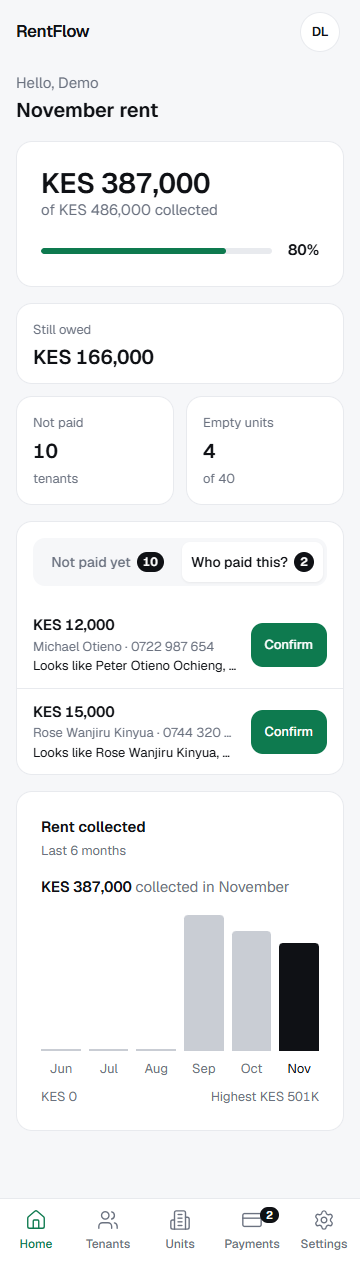
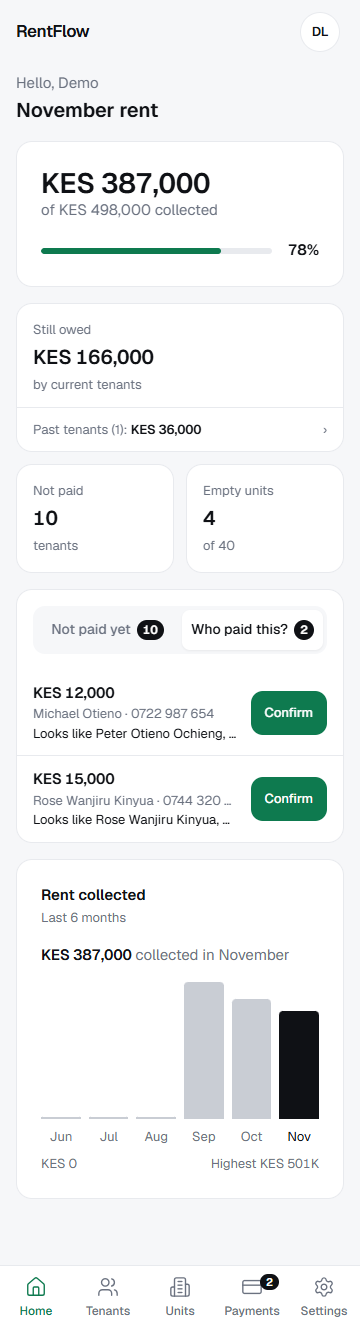
Refresh screenshots with past tenants and billing screens

diff --git a/scripts/screenshots.ts b/scripts/screenshots.ts
@@ -12,7 +12,7 @@ import { createClient, type Session } from "@supabase/supabase-js";
 import { existsSync, mkdirSync, readFileSync } from "node:fs";
 import { join } from "node:path";
 import { chromium, type BrowserContext } from "playwright-core";
-import { DEMO } from "../src/demo/data";
+import { DEMO, ORG_ID } from "../src/demo/data";
 
 const BASE = process.env.BASE_URL ?? "http://localhost:3100";
 const OUT = join(__dirname, "..", "docs", "screenshots");
@@ -74,6 +74,7 @@ async function main() {
   const { data: ahead } = await db.from("lease_overview").select("lease_id").eq("unit_code", "B15").single();
   const { data: b } = await db.from("buildings").select("id").limit(1).single();
   const { data: up } = await db.from("statement_uploads").select("id").order("created_at", { ascending: false }).limit(1).single();
+  const { data: past } = await db.from("lease_overview").select("lease_id").eq("status", "ended").limit(1).maybeSingle();
 
   const landlord: [string, string][] = [
     ["01-home", "/home"],
@@ -93,6 +94,8 @@ async function main() {
     ["15-onboarding-3-tenants", `/onboarding/tenants?b=${b!.id}`],
     ["16-onboarding-4-statement", `/onboarding/statement?b=${b!.id}`],
     ["17-onboarding-reveal", `/onboarding/done?b=${b!.id}`],
+    ["18-tenants-moved-out", "/tenants?show=moved-out"],
+    ...(past ? ([["19-past-tenant", `/tenants/${past.lease_id}`]] as [string, string][]) : []),
   ];
   const ctx = await browser.newContext();
   await ctx.addCookies(cookiesFor(session));
@@ -131,6 +134,7 @@ async function main() {
           ["32-admin-plans", "/admin/plans"],
           ["33-admin-agents", "/admin/agents"],
           ["34-admin-sms", "/admin/sms"],
+          ["35-admin-billing-landlord", `/admin/billing/${ORG_ID}`],
         ] as const)
           await shoot(sctx, n, p, w);
       await sctx.close();
